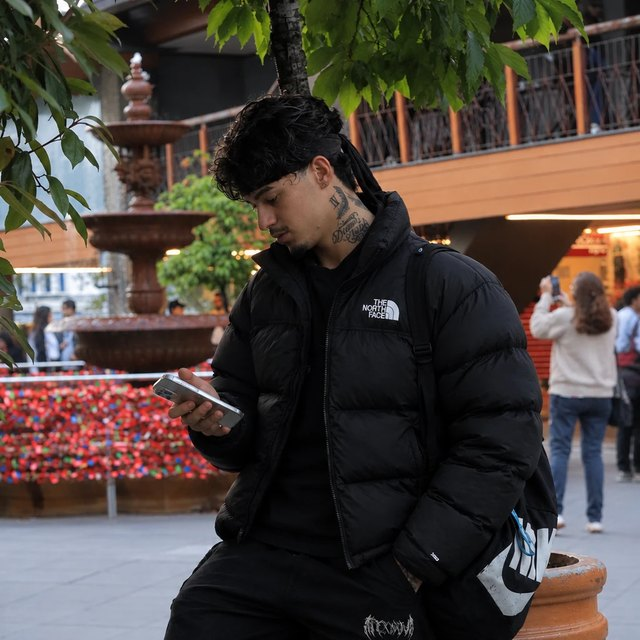
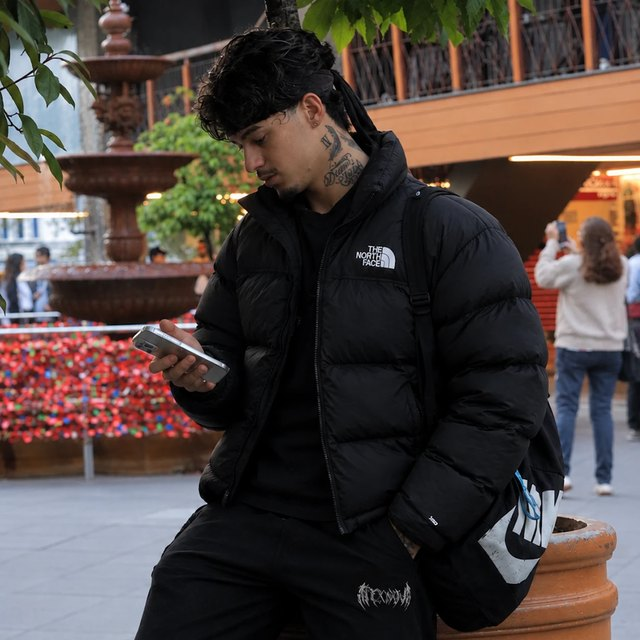
Foto nova do Ryan Dalatea (CEO)
- Quem cuida da sua conta: nova foto do Ryan, enquadrada no rosto.

Claude-Session: https://claude.ai/code/session_01AbAQQVtfh3uNFnJJQHmNsu

diff --git a/src/styles/main.css b/src/styles/main.css
@@ -3354,13 +3354,13 @@ svg use {
 }
 
 .team__photo--ryan img {
-  object-position: 46% 24%;
-  transform: scale(1.45);
-  transform-origin: 46% 24%;
+  object-position: 45% 22%;
+  transform: scale(1.5);
+  transform-origin: 45% 22%;
 }
 
 .team__fig:hover .team__photo--ryan img {
-  transform: scale(1.52);
+  transform: scale(1.57);
 }
 
 .team__fig:hover .team__photo img {
